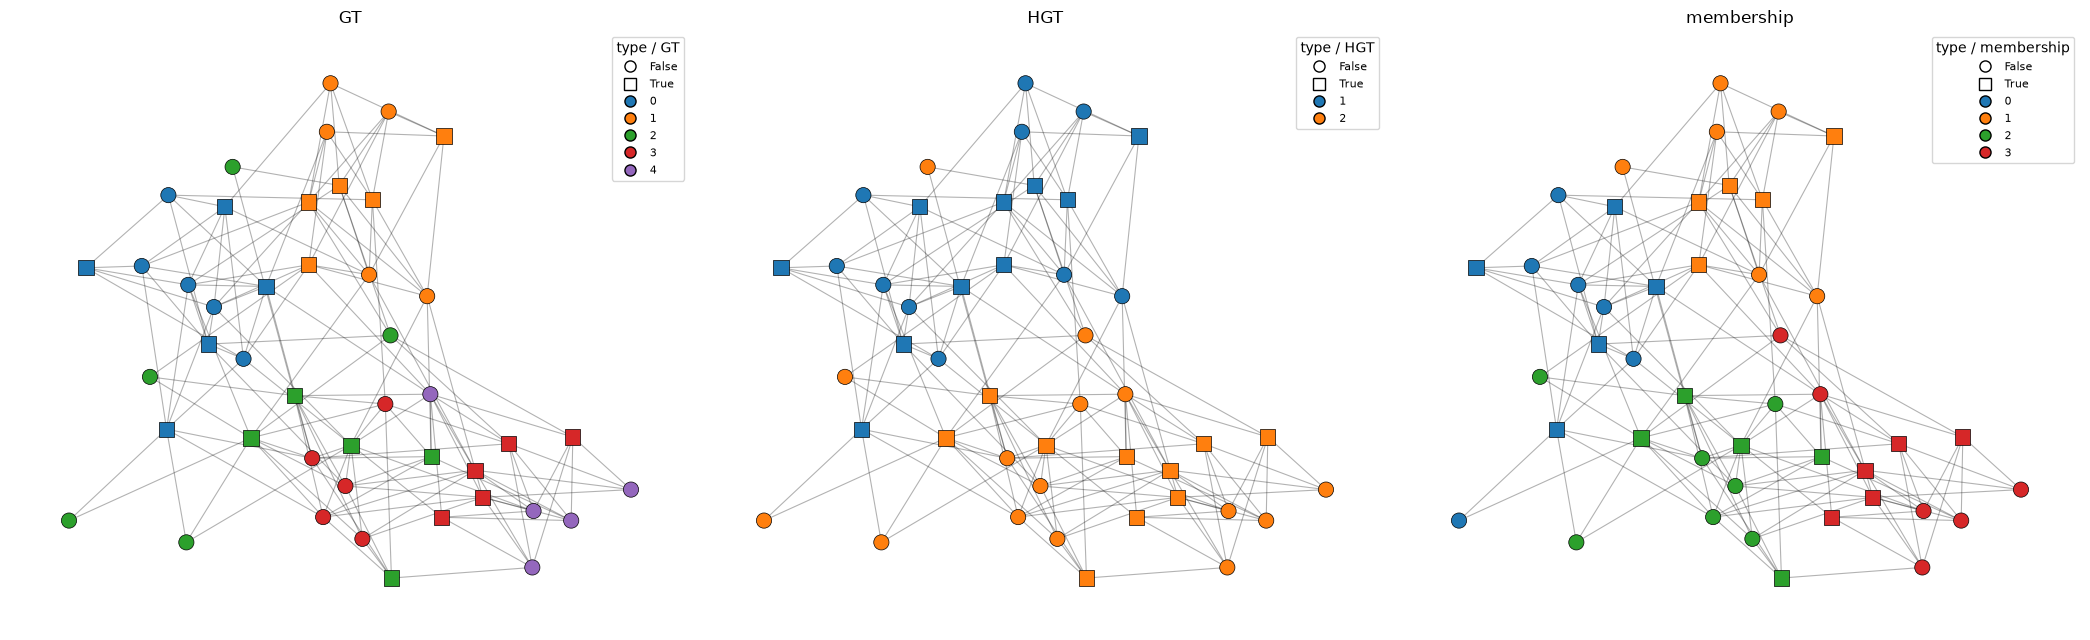
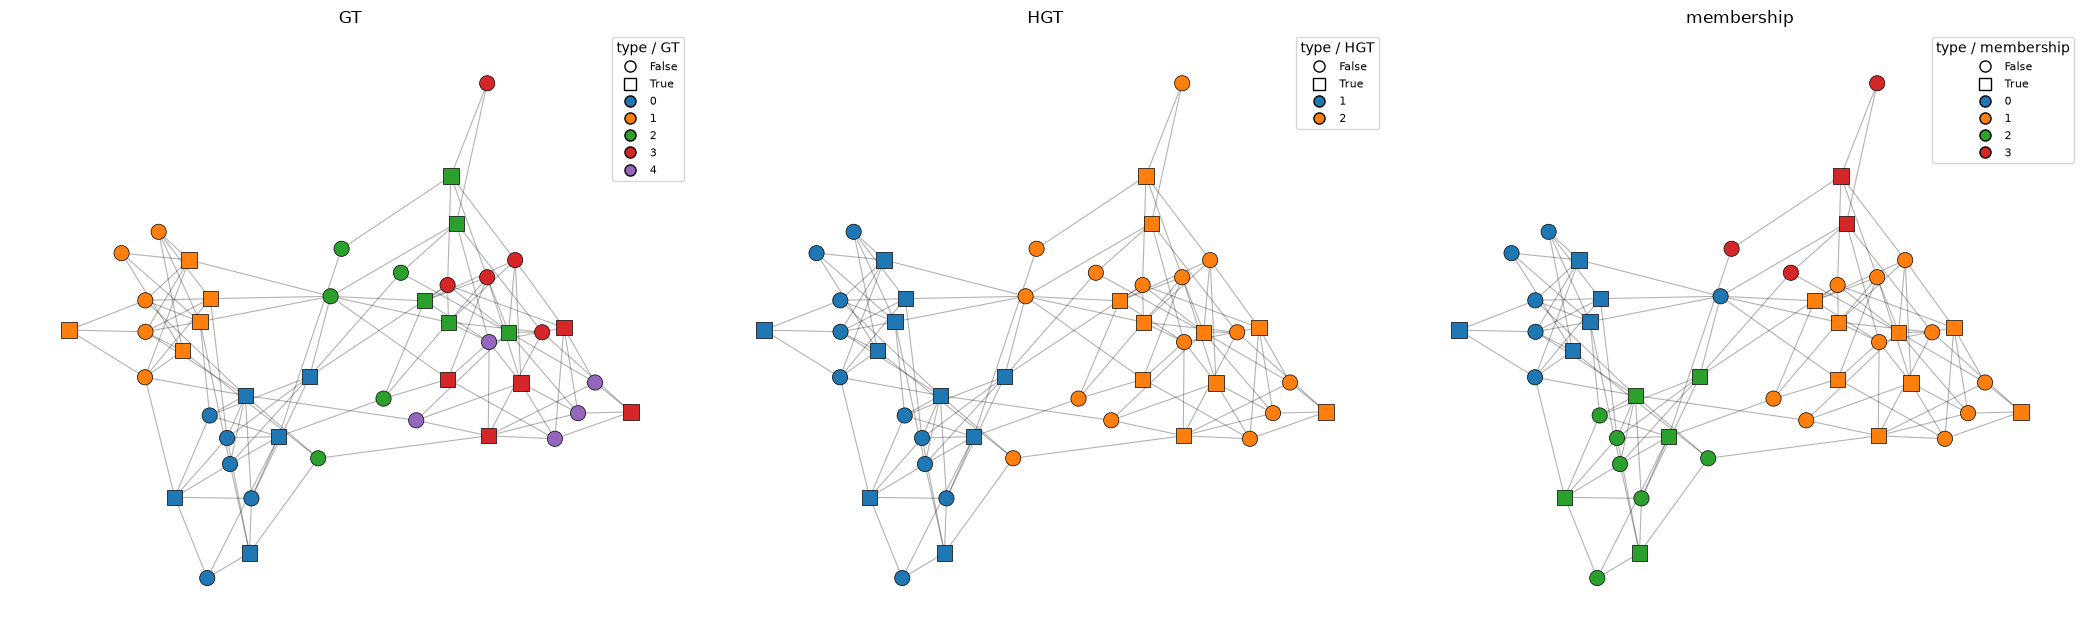
Updated test files

diff --git a/test_small_hier.py b/test_small_hier.py
@@ -26,7 +26,7 @@ print('Generating new graphs')
 #    shuffle=True, filename='test_graphs_', seed=24#42
 #)
 expconfig = HierarchicalConfig(
-	L=[5,5,5,5,5], U=[5,5,5,5], NumEdges=150, ProbArray=[0.9,0.2,0.05,0.05,0.2,0.9,0.05,0.05,0.2,0.2,0.2,0.2,0.05,0.05,0.9,0.2,0.05,0.05,0.2,0.9],
+	L=[5,5,5,5,5], U=[5,5,5,5], NumEdges=120, ProbArray=[0.9,0.2,0.01,0.01,0.2,0.9,0.01,0.01,0.3,0.3,0.3,0.3,0.01,0.01,0.9,0.2,0.01,0.01,0.2,0.9],
 	HighGT=[1,1,2,2,2,1,1,2,2],filename='hier_test_',seed=42,NumGraphs=1
 )
 
@@ -168,7 +168,7 @@ for id, sol in df_contestants.iterrows():
         nx.set_node_attributes(G, dict(zip(G.nodes, sol['membership'])), "membership")
         fig, axes = plt.subplots(1, 3, figsize=(21, 6.5))
         for ax, attr in zip(axes, COLOUR_ATTRS):
-            print(f'plotting {attr}')
+            #print(f'plotting {attr}')
             draw_panel(ax, G, pos, attr, TYPE_ATTR, shape_map)
         fig.tight_layout()
         plt.savefig(f'best_{sol["name"]}.png',bbox_inches='tight')
